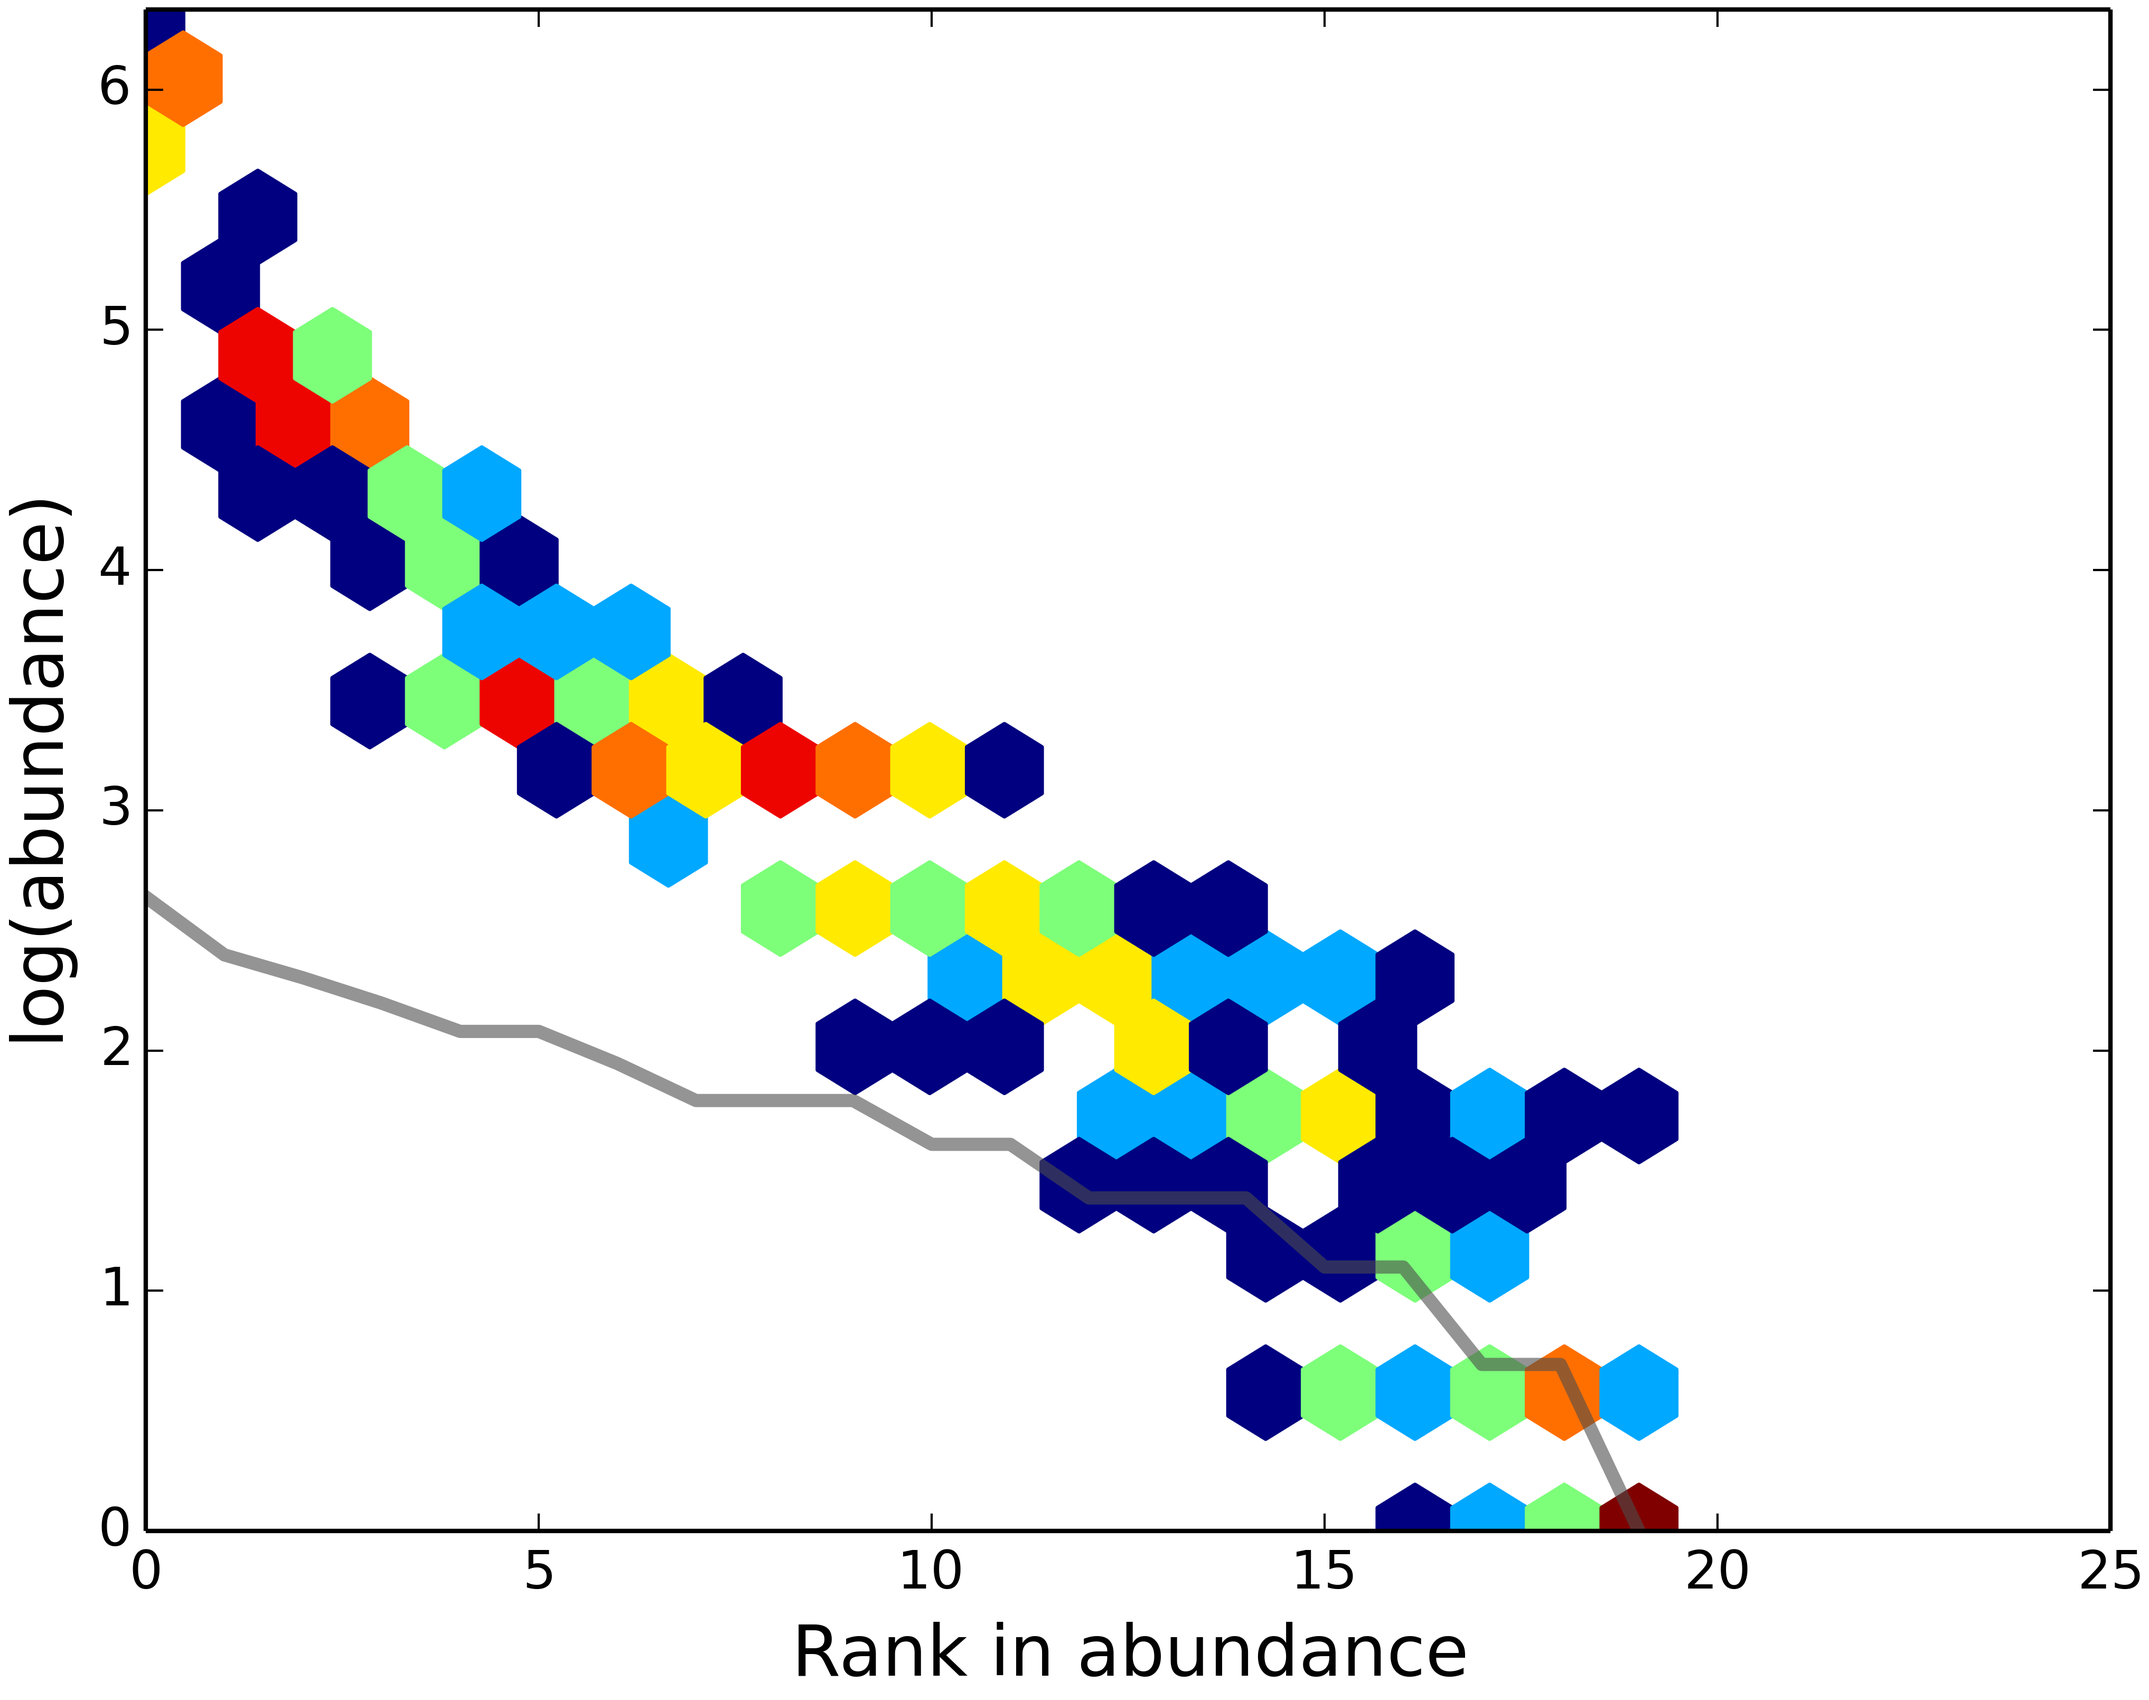
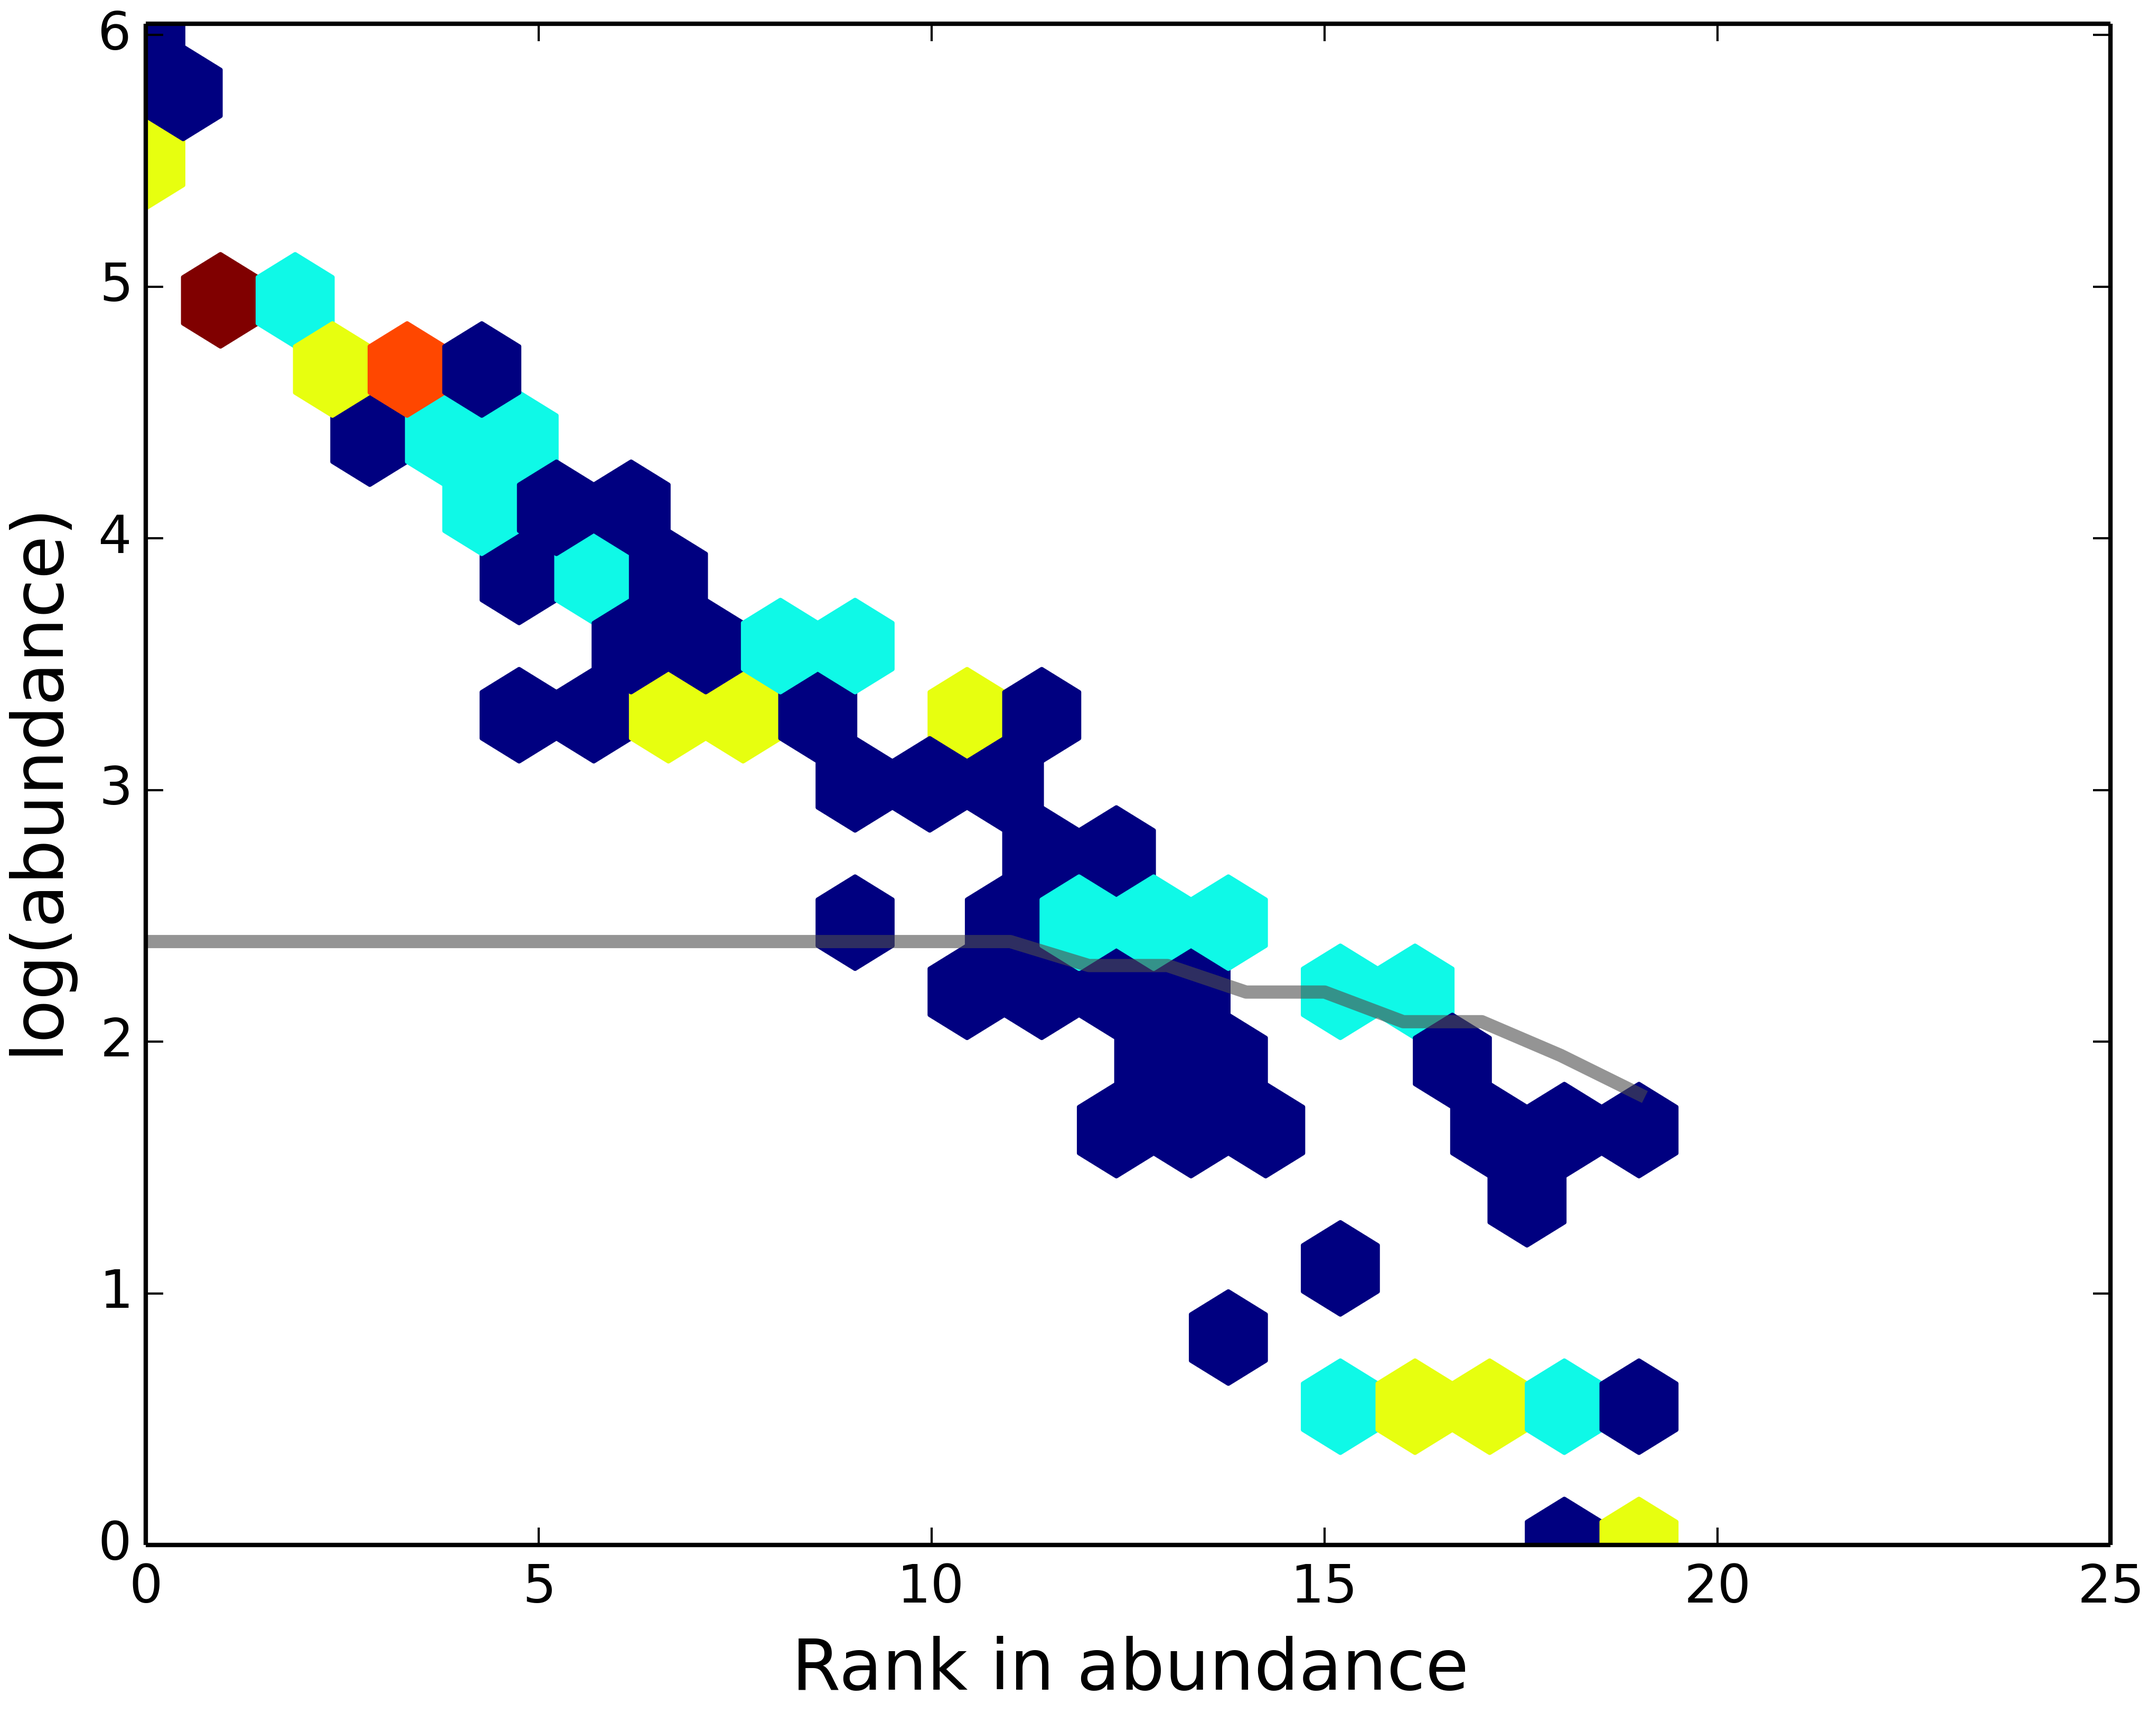
MLEs and RACs

diff --git a/Models/LogNorm_MLEs_and_RACs.py b/Models/LogNorm_MLEs_and_RACs.py
@@ -52,8 +52,9 @@ def get_MLEs(RAC):
     #is causing something to happen.  Not sure what, but it seems like that the more times that we
     # require the variances to be equal the less log normal the MLE becomes.
     
-    while np.var(varlst, ddof = 1) > 0.01: # while the variance of varlst is greater than zero
+    while np.var(varlst, ddof = 1) > 0: # while the variance of varlst is greater than zero
         RAC = pln.get_rad_from_obs(RAC, 'pln') #get RAC from pln
+        print RAC
         varlst.append(np.var(RAC, ddof =1)) # add the variance of the end RAC to the list
         varlst.pop(0) # remove the first number in the varlst 
         print np.var(varlst)
@@ -64,7 +65,7 @@ def get_MLEs(RAC):
     
 N = 1000
 S = 20
-sample_size = 10
+sample_size = 5
 
 SLN = SimLogNorm(N, S, sample_size)
 
@@ -77,7 +78,6 @@ for RAC in SLN: #Placing SLN RAC values into lists
     x.extend(range(len(RAC)))
     
 MLE = get_MLEs(RAC) #Finding MLEs valus
-
 
 plt.plot(np.log(MLE), color='0.3', lw=3, alpha = 0.6)
 
